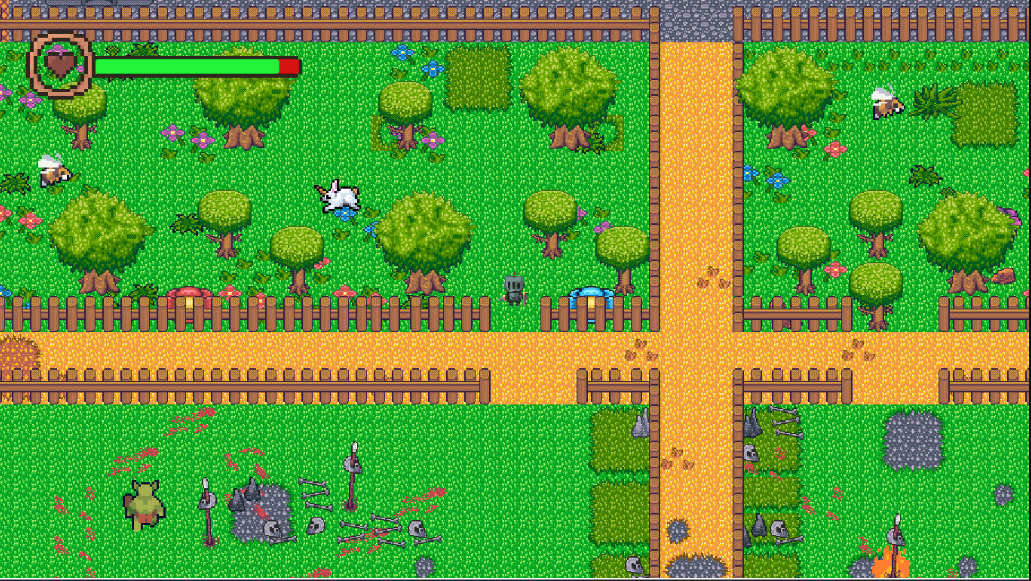
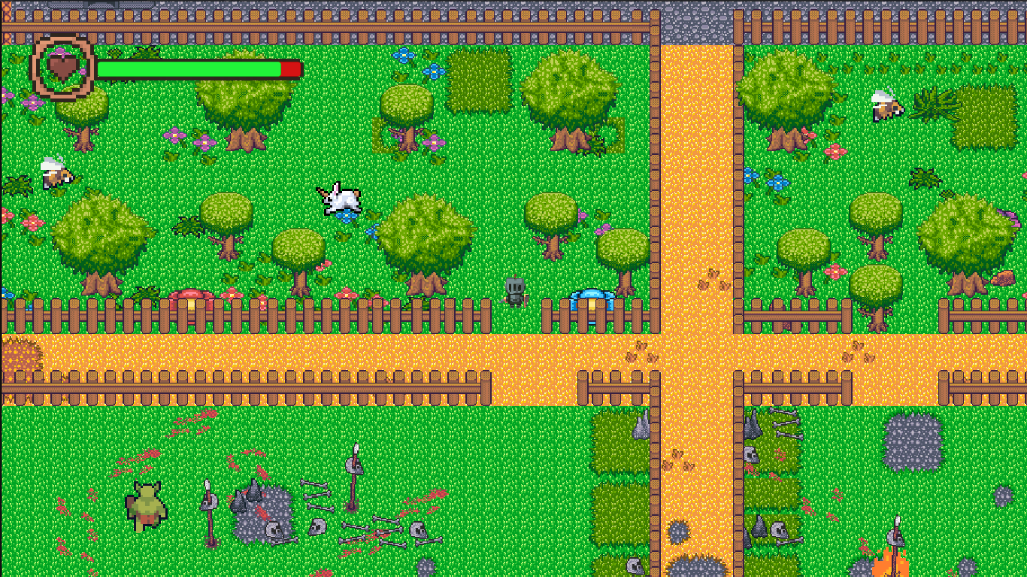
fix erro imgs, alteracao sobre

diff --git a/script.js b/script.js
@@ -16,41 +16,46 @@ const CARDS = [
     eyebrow: "sobre mim",
     title: "Kathe Beserra",
     body: `
-
-    <p>Sou <span class="hl hl--gold">Game Designer</span> e <span class="hl hl--gold">desenvolvedora</span>
+  
+    <p>Sou <span class="hl hl--rose">Game Designer</span> e <span class="hl hl--rose">desenvolvedora</span>
     independente, apaixonada por criar experiências marcantes e únicas por meio dos jogos.</p>
-
-    <p>Já atuei como game designer e gameplay designer em <span class="hl hl--rose">Dungeon Runner</span>, um roguelike
-    de deck-building publicado na Google Play, com arquitetura orientada a dados pras cartas, inimigos e itens —
-    escrevi o game design document completo e o lore do jogo. Também fui game designer, desenvolvedora e artista 3D
-    do <a class="hl hl--rose" href="https://katheisabelle.itch.io/tnt-party-game" target="_blank" rel="noopener">TNT Party Game</a>, com cinco minigames multiplayer local, feito na SoulCode
-    Academy com patrocínio da TNT Energy Drink.</p>
-
-    <p>Formada em <strong>Engenharia de Computação</strong> pela UFPel e o meu trabalho de conclusão de curso foi o
-    <a class="hl hl--rose" href="https://katheisabelle.itch.io/odisseia-2d" target="_blank" rel="noopener">Odisseia 2D</a>, um jogo educativo sobre circuitos digitais desenvolvido em
-    Unity, que recebeu destaque na Semana Integrada de Inovação, Ensino, Pesquisa e Extensão (SIIEPE) e foi
-    publicado no <a class="hl hl--gold" href="https://sol.sbc.org.br/index.php/sbie/article/view/31298" target="_blank" rel="noopener">Simpósio Brasileiro de Informática na Educação (SBIE)</a>, evento Qualis A3.</p>
-
-    <p>Atualmente faço <strong>pós-graduação [Mestrado]</strong> (PPGC) na mesma universidade, pesquisando no
-    <span class="hl hl--violet">LUPS</span> (Laboratório de Sistemas Ubíquos e Paralelos) uma aplicação de
-    realidade virtual pra Meta Quest, criada pra apoiar o aprendizado da escrita manuscrita em crianças. Esse
-    trabalho foi publicado no Symposium on Virtual and Augmented Reality (SVR), o principal evento de RV/RA do
-    Brasil, promovido pela Comissão Especial de Realidade Virtual e Aumentada (CERV) da SBC — outro evento Qualis A3.</p>
 
     <p>Tenho experiência com <strong>programação</strong>
     (<img class="tech-icon" src="assets/portfolio/skills/csharp.png" alt="C#">,
     <img class="tech-icon" src="assets/portfolio/skills/python.png" alt="Python">,
     <img class="tech-icon" src="assets/portfolio/skills/javascript.png" alt="JavaScript">),
     <strong>desenvolvimento de jogos</strong> 2D/3D em
-    <img class="tech-icon" src="assets/portfolio/skills/unity.png" alt="Unity">,
+    <img class="tech-icon" src="assets/portfolio/skills/unity.png" alt="Unity">Unity,
     <strong>modelagem e animação</strong> 3D com
-    <img class="tech-icon" src="assets/portfolio/skills/blender.png" alt="Blender">,
+    <img class="tech-icon" src="assets/portfolio/skills/blender.png" alt="Blender">Blender,
     <strong>ilustração digital</strong> no
-    <img class="tech-icon" src="assets/portfolio/skills/photoshop.png" alt="Photoshop">
+    <img class="tech-icon" src="assets/portfolio/skills/photoshop.png" alt="Photoshop"> Adobe Photoshop
     e <strong>inglês avançado</strong> com certificações.</p>
+
+    <p>Atuei profissionalmente no jogo <a class="hl hl--blue" href="https://play.google.com/store/apps/details?id=bibiugames.magicards&pli=1" target="_blank" rel="noopener">MagiCards</a>
+    onde exerci tarefas de <strong>game design</strong>, <strong>narrative design & worldbuilding</strong>, <strong>character & creature design</strong>, <strong>item design</strong> e <strong>environment concept development</strong>. Este é um jogo dungeon crawler e card game colecionável publicado para android.</p> 
     
-     <div class="about-links">
-      <a class="icon-btn" href="https://katheisabelle.itch.io" target="_blank" rel="noopener" aria-label="itch.io">
+    <p>E ainda, contribui como <strong>game designer</strong>, <strong>desenvolvedora</strong> e <strong>artista 3D</strong>
+    no <a class="hl hl--blue" href="https://katheisabelle.itch.io/tnt-party-game" target="_blank" rel="noopener">TNT Party Game</a>.
+    Um jogo com cinco minigames multiplayer local, feito no bootcamp da <a class="hl hl--blue" href="https://soulcode.com" target="_blank" rel="noopener">SoulCode Academy</a>  com patrocínio da TNT Energy Drink.</p>
+
+    <p>Atualmente estou na <strong>pós-graduação [Mestrado]</strong> na UFPel, faço parte do grupo de pesquisa
+    <a class="hl hl--blue" href="https://lups.inf.ufpel.edu.br/about/doku.php?id=start" target="_blank" rel="noopener">LUPS</a>
+    (Laboratório de Sistemas Ubíquos e Paralelos), onde estou desenvolvendo o <span class="hl hl--rose">HandWriting VR</span> uma aplicação em <strong>realidade virtual</strong> para Meta Quest.
+    O objetivo é auxiliar crianças em fase de alfabetização no processo de aprendizado da escrita manual, de forma a torná-lo cativante.
+    Esse trabalho foi publicado no <a class="hl hl--blue" href="https://svr.sbc.org.br/2026/" target="_blank" rel="noopener">SVR</a>
+    (Symposium on Virtual and Augmented Reality), o principal evento de RV/RA do Brasil, promovido pela Comissão Especial de Realidade Virtual e Aumentada (CERV) da SBC — evento Qualis A3.</p>
+
+    <p>Também sou graduada em <strong>engenharia de computação</strong> pela mesma universidade e o meu trabalho de conclusão de curso foi o
+    <a class="hl hl--rose" href="https://katheisabelle.itch.io/odisseia-2d" target="_blank" rel="noopener">Odisseia 2D</a>, um <strong>puzzle game educacional</strong> sobre circuitos digitais desenvolvido na
+    Unity. Esse trabalho foi publicado no <a class="hl hl--blue" href="https://sol.sbc.org.br/index.php/sbie/article/view/31298" target="_blank" rel="noopener">Simpósio Brasileiro de Informática na Educação (SBIE)</a> — outro evento Qualis A3.</p>
+
+
+
+    <div class="about-links-box">
+    <p class="about-links-box__title">✦Minhas redes & currículo:✦</p>
+    <div class="about-links">
+        <a class="icon-btn" href="https://katheisabelle.itch.io" target="_blank" rel="noopener" aria-label="itch.io">
         <img src="assets/portfolio/icons/itch.png" alt="itch.io">
       </a>
       <a class="icon-btn" href="https://github.com/KatheIsabelle" target="_blank" rel="noopener" aria-label="GitHub">
@@ -65,8 +70,9 @@ const CARDS = [
       <a class="icon-btn" href="https://drive.google.com/file/d/1XQMn1mp_J-I52Tkbost6bdA48JsdXqvA/view?usp=sharing" target="_blank" rel="noopener" aria-label="Currículo">
         <img src="assets/portfolio/icons/cv.png" alt="Currículo">
       </a>
-
+      </div>
     </div>
+    
     `
   },
 
@@ -227,7 +233,7 @@ const CARDS = [
 
         
         <h4 class="sheet-h"><img src="assets/halloween/spell_book.png" alt="">Sobre</h4>
-        <p>Embarque em uma envolvente aventura 2D com câmera no estilo top-down e gênero puzzle RPG.
+        <p>Embarque em uma envolvente aventura <strong>2D</strong> com câmera no estilo <strong>top-down</strong> e gênero <strong>puzzle RPG</strong>.
         Explore um mundo elétrico e desafiador, onde cada fase propõe enigmas baseados em Técnicas e Circuitos Digitais.</p>
 
         <p>Você será o protagonista: um jovem humano que, por acidente, foi transportado para um mundo nanométrico e totalmente desconhecido.
@@ -298,8 +304,8 @@ const CARDS = [
         </p>
 
         <h4 class="sheet-h"><img src="assets/halloween/spell_book.png" alt="">Sobre</h4>
-         <p>No universo de diversão da TNT, quatro competidores enfrentam uma série de desafios em ambientes Sci-fi, 
-        participando de cinco tipos de mini-games.</p> 
+         <p>No universo de diversão da TNT, <strong>quatro competidores</strong> enfrentam uma série de <strong>desafios</strong> em ambientes Sci-fi, 
+        participando de cinco tipos de <strong>mini-games</strong>.</p> 
         
         <p>Esses jogos foram planejados e desenvolvidos para um evento especial 
         chamado "Dinâmica Energética".Os jogadores competem intensamente, acumulando pontos por meio de seu desempenho e 
@@ -375,7 +381,7 @@ const CARDS = [
         </p>
 
         <h4 class="sheet-h"><img src="assets/halloween/spell_book.png" alt="">Sobre</h4>
-        <p>Jogo 2D top-down em que você assume o papel de um cavaleiro solitário em um mundo
+        <p>Jogo <strong>2D top-down</strong> em que você assume o papel de um cavaleiro solitário em um mundo
         desconhecido, enfrentando criaturas diversas e construindo seu próprio lar em meio ao caos.</p>
         <p>Uma experiência que mistura sobrevivência, introspecção e a busca por paz em um universo vasto.</p>
 
@@ -426,10 +432,16 @@ const CARDS = [
         </p>
 
         <h4 class="sheet-h"><img src="assets/halloween/spell_book.png" alt="">Sobre</h4>
-        <p>Assuma o papel do herói e embarque em uma missão épica para caçar e capturar DarkSkull,
+        <p>Nesse jogo de <strong>plataforma 2D</strong>, assuma o papel do herói e embarque em uma missão épica para caçar e capturar DarkSkull,
         um demônio determinado a espalhar o caos por sua terra natal.</p>
         <p>Enfrente seus aliados corrompidos, explore cenários sombrios e aterrorizantes, e lute pela
         sua vida enquanto tenta salvar seu mundo da destruição!</p>
+
+        
+        <div class="sheet-shots">
+          <figure><img src="assets/portfolio/games/dark-1.png" alt="Floresta e inimigos" loading="lazy"></figure>
+          <figure><img src="assets/portfolio/games/dark-2.png" alt="Vila" loading="lazy"></figure>
+        </div>
 
         <h4 class="sheet-h"><img src="assets/halloween/candelabra.png" alt="">Estado atual</h4>
         <ul class="sheet-list">
@@ -456,7 +468,7 @@ const CARDS = [
     name: "O Mundo",
     meaning: "entregue ao mundo",
     eyebrow: "biblioteca de pergaminhos",
-    title: "Publicações acadêmicas",
+    title: "Publicações científicas",
     body: `
 
       <div class="pub-grid">
@@ -723,38 +735,43 @@ const CARDS = [
     eyebrow: "blog",
     title: "Crônicas da Roda",
     body: `
+
+      <p><strong>Vou reservar essa área do site para ser um blog pessoal. Aqui irei escrever sobre 
+      tópicos que acho interessante relacionados à computação, jogos, inteligência artificial e arte. 
+      O intuito é trazer dicas úteis, informação e curiosidades para quem quer se aprofundar mais nesses tópicos.</strong></p>
+
       <div class="games-grid" id="gamesGrid">
 
         <button class="game-tile" data-game="post-1">
-          <img class="game-tile__cover" src="assets/portfolio/games/post.svg" alt="">
+          <img class="game-tile__cover" src="assets/portfolio/blog/posts/dicas.png" alt="">
           <span class="game-tile__wip">WIP</span>
           <span class="game-tile__title">Games Dicas</span>
           <span class="game-tile__meta">em breve</span>
         </button>
 
         <button class="game-tile" data-game="post-2">
-          <img class="game-tile__cover" src="assets/portfolio/games/post.svg" alt="">
+          <img class="game-tile__cover" src="assets/portfolio/blog/posts/IA.png" alt="">
           <span class="game-tile__wip">WIP</span>
           <span class="game-tile__title">Games & IA</span>
           <span class="game-tile__meta">em breve</span>
         </button>
 
         <button class="game-tile" data-game="post-3">
-          <img class="game-tile__cover" src="assets/portfolio/games/post.svg" alt="">
+          <img class="game-tile__cover" src="assets/portfolio/blog/posts/design.png" alt="">
           <span class="game-tile__wip">WIP</span>
           <span class="game-tile__title">Game Design</span>
           <span class="game-tile__meta">em breve</span>
         </button>
 
         <button class="game-tile" data-game="post-4">
-          <img class="game-tile__cover" src="assets/portfolio/games/post.svg" alt="">
+          <img class="game-tile__cover" src="assets/portfolio/blog/posts/pesquisa.png" alt="">
           <span class="game-tile__wip">WIP</span>
           <span class="game-tile__title">Pesquisa & VR</span>
           <span class="game-tile__meta">em breve</span>
         </button>
 
         <button class="game-tile" data-game="post-5">
-          <img class="game-tile__cover" src="assets/portfolio/games/post.svg" alt="">
+          <img class="game-tile__cover" src="assets/portfolio/blog/posts/arte.png" alt="">
           <span class="game-tile__wip">WIP</span>
           <span class="game-tile__title">Arte & 3D</span>
           <span class="game-tile__meta">em breve</span>

diff --git a/style.css b/style.css
@@ -9,6 +9,10 @@
   --amethyst: #6a4c93;
   --twilight-blue: #2f3e6e;
   --old-rose: #b76e79;
+  --coral: #E47E73;
+  --orange: #DC925A;
+  --cyan: #48B9C4;
+  --blue: #579BD8;
 
   --px-line: #8257c9;
   --px-dark: #14121f;
@@ -610,6 +614,9 @@ a, button, .fan-card, [role="button"], .title, .familiar{
    (áreas de atuação, projetos, instituições) */
 .hl{ font-weight: 600; }
 .hl--gold{ color: var(--ancient-gold); }
+.hl--cyan{color: var(--cyan)}
+.hl--blue{color: var(--blue)}
+.hl--orange{color: var(--orange)}
 .hl--rose{ color: var(--old-rose); }
 .hl--violet{ color: #b39ddb; }
 
@@ -1244,4 +1251,60 @@ a, button, .fan-card, [role="button"], .title, .familiar{
   /* ---- Páginas internas ---- */
   .px-btn.px-btn--wide{ min-width: 0; width: auto; }
   .gallery{ grid-template-columns: 1fr; }
+}
+
+a.hl--gold { color: var(--ancient-gold); }
+a.hl--cyan { color: var(--cyan); }
+a.hl--blue { color: var(--blue); }
+a.hl--orange { color: var(--orange); }
+a.hl--rose { color: var(--old-rose); }
+a.hl--violet { color: #b39ddb; }
+
+.about-links-box{
+  position: relative;
+  margin: 32px 10px 8px;
+  padding: 18px 14px 16px;
+  text-align: center;
+  background: var(--px-fill);
+  box-shadow:
+    0 -4px 0 0 var(--px-line), 0 4px 0 0 var(--px-line), -4px 0 0 0 var(--px-line), 4px 0 0 0 var(--px-line),
+    0 -8px 0 0 var(--px-dark), 0 8px 0 0 var(--px-dark), -8px 0 0 0 var(--px-dark), 8px 0 0 0 var(--px-dark),
+    inset 0 4px 0 0 rgba(255,255,255,0.08), inset 0 -4px 0 0 rgba(0,0,0,0.25);
+}
+.about-links-box::before,
+.about-links-box::after{
+  content: "";
+  position: absolute;
+  top: -18px;
+  width: 36px;
+  height: 36px;
+  background-repeat: no-repeat;
+  background-size: contain;
+  image-rendering: pixelated;
+  pointer-events: none;
+}
+.about-links-box::before{ left: -16px; background-image: url('assets/halloween/cobweb.png'); }
+.about-links-box::after{ right: -16px; background-image: url('assets/halloween/candelabra.png'); }
+
+.about-links-box__title{
+  margin: 0;
+  font-family: var(--font-title);
+  font-size: 18px;
+  letter-spacing: 0.06em;
+  text-transform: uppercase;
+  color: var(--ancient-gold);
+  text-shadow: 0 2px 0 var(--px-dark);
+}
+.about-links-box__sub{
+  margin: 4px 0 14px;
+  font-size: 14px;
+  color: var(--parchment);
+  opacity: 0.85;
+}
+.about-links-box .about-links{
+  display: flex;
+  flex-wrap: wrap;
+  gap: 14px;
+  justify-content: center;
+  margin: 0;
 }

diff --git a/index.html b/index.html
@@ -38,7 +38,9 @@
           <span id="titleText">Kathe Beserra</span>
         </h1>
         <img class="about-mini__photo" src="assets/portfolio/about/me.jpg" alt="Kathe Beserra">
-                Game designer e desenvolvedora, mestranda em Ciência da Computação. Tenho experiência com jogos 2D e 3D na Unity. Pesquiso realidade virtual, desenho e busco criar experiências marcantes por meio dos games.</p>
+                Game designer e desenvolvedora com formação em Engenharia da Computação e mestranda
+                em ciência da computação. Tenho experiência com Unity 2D/3D, entre código, desenho
+                e jogos, busco criar experiências marcantes e únicas. 
         <div class="about-mini__links">
           <a class="px-icon" href="https://katheisabelle.itch.io" target="_blank" rel="noopener" aria-label="itch.io"><img src="assets/portfolio/icons/itch.png" alt=""></a>
           <a class="px-icon" href="https://github.com/KatheIsabelle" target="_blank" rel="noopener" aria-label="GitHub"><img src="assets/portfolio/icons/github.png" alt=""></a>
